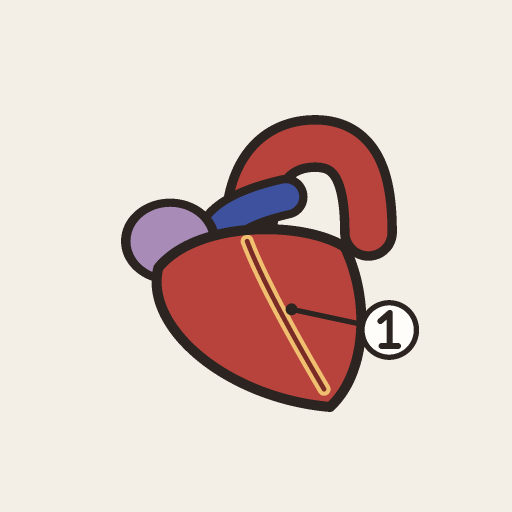
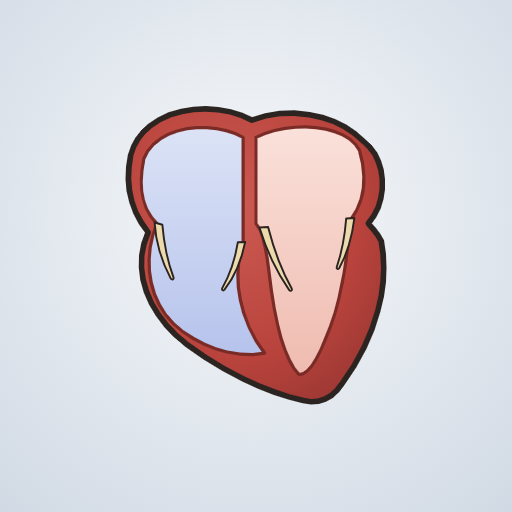
Icônes et aperçu de lien : nouvelles icônes, image Open Graph, URL canonique
- Icônes régénérées (tools/make-icons.mjs, tools/lib/edge.mjs), icône
  « maskable » et apple-touch-icon dédiées.
- Image d'aperçu 1200 × 630 (tools/make-og.mjs) et balises Open Graph /
  Twitter, URL canonique https://cardioexplain.com/.
- Manifeste : description et couleur de fond ; service worker v21 (nouvelles
  icônes en cache).

diff --git a/index.html b/index.html
@@ -4,11 +4,25 @@
   <meta charset="utf-8">
   <meta name="viewport" content="width=device-width, initial-scale=1, viewport-fit=cover">
   <title>Planche d'anatomie — Le cœur</title>
-  <meta name="description" content="Planche d'anatomie interactive en 3D du cœur et de ses vaisseaux, pour expliquer aux patients.">
+  <meta name="description" content="Le cœur en 3D qui bat, s'ouvre et se tourne, pour l'expliquer aux patients.">
   <meta name="theme-color" content="#f4efe6">
+  <link rel="canonical" href="https://cardioexplain.com/">
+  <!-- aperçu de lien (Open Graph, réseaux, messageries) : image générée par tools/make-og.mjs -->
+  <meta property="og:type" content="website">
+  <meta property="og:locale" content="fr_FR">
+  <meta property="og:site_name" content="Planche cœur">
+  <meta property="og:url" content="https://cardioexplain.com/">
+  <meta property="og:title" content="Planche cœur — le cœur en 3D, pour l'expliquer aux patients">
+  <meta property="og:description" content="Il bat, se tourne et s'ouvre en coupe : montrez au patient ses cavités, ses valves et le trajet du sang. S'installe depuis le navigateur, fonctionne hors ligne.">
+  <meta property="og:image" content="https://cardioexplain.com/icons/og-image.png">
+  <meta property="og:image:width" content="1200">
+  <meta property="og:image:height" content="630">
+  <meta property="og:image:alt" content="Cœur en 3D ouvert en coupe, à côté du titre « Le cœur en 3D, pour l'expliquer aux patients ».">
+  <meta name="twitter:card" content="summary_large_image">
   <link rel="manifest" href="manifest.webmanifest">
   <link rel="icon" href="icons/icon.svg" type="image/svg+xml">
-  <link rel="apple-touch-icon" href="icons/icon-192.png">
+  <link rel="icon" href="icons/icon-192.png" type="image/png" sizes="192x192">
+  <link rel="apple-touch-icon" href="icons/apple-touch-icon.png">
   <meta name="apple-mobile-web-app-capable" content="yes">
   <meta name="apple-mobile-web-app-status-bar-style" content="default">
   <link rel="preconnect" href="https://cdn.jsdelivr.net" crossorigin>

diff --git a/sw.js b/sw.js
@@ -1,10 +1,10 @@
 // Service worker — mise en cache de l'enveloppe applicative et des modules three.js
-const VERSION = 'planche-coeur-v20';
+const VERSION = 'planche-coeur-v21';
 const THREE = 'https://cdn.jsdelivr.net/npm/three@0.169.0/';
 const SHELL = [
   './', './index.html', './css/style.css', './js/app.js', './js/heart.js', './js/valves.js',
   './js/contact-shadows.js', './js/cut-surface.js', './js/aortic-view.js', './js/av-views.js', './js/data.js', './assets/heart.bin',
-  './manifest.webmanifest', './icons/icon.svg', './icons/icon-192.png', './icons/icon-512.png',
+  './manifest.webmanifest', './icons/icon.svg', './icons/icon-192.png', './icons/icon-512.png', './icons/icon-512-maskable.png', './icons/apple-touch-icon.png',
   THREE + 'build/three.module.js',
   THREE + 'examples/jsm/controls/OrbitControls.js',
   THREE + 'examples/jsm/renderers/CSS2DRenderer.js',
